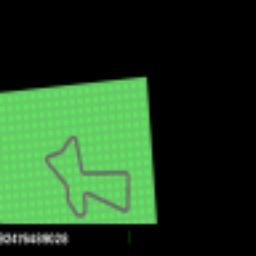
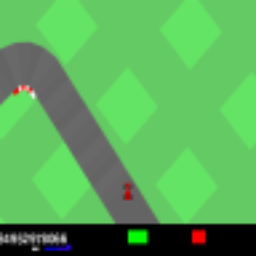
fix: 用暖机帧替代 reset 首帧，图片能看清赛车和赛道

diff --git a/scripts/visualize_carracing.py b/scripts/visualize_carracing.py
@@ -29,9 +29,15 @@ def load_models(output_dir):
     return vae, mdn, controller
 
 
-def capture_environment_frame(env, seed=0):
-    """捕获环境初始帧。"""
+def capture_environment_frame(env, seed=0, warmup_steps=30):
+    """捕获环境帧：先跑 warmup_steps 步，让车进入赛道弯道，画面更有代表性。"""
     obs, _ = env.reset(seed=seed)
+    for _ in range(warmup_steps):
+        # 轻微左转 + 油门，让车离开起点直道进入弯道
+        action = np.array([0.3, 0.5, 0.0])
+        obs, reward, terminated, truncated, _ = env.step(action)
+        if terminated or truncated:
+            break
     return obs
 
 

diff --git a/docs/chapters/03-decision-and-planning/03-06-reproduce-world-models.md b/docs/chapters/03-decision-and-planning/03-06-reproduce-world-models.md
@@ -25,8 +25,8 @@ World Models 原文有两个实验：CarRacing 赛车和 VizDoom 躲火球。我
 动作空间是三维连续向量：方向盘 \([-1, 1]\)、油门 \([0, 1]\)、刹车 \([0, 1]\)。每局最多 1,000 步（约 20 秒），冲出赛道或长时间停滞会提前结束。
 
 <div style="text-align:center; margin:20px 0;">
-  <img src="/carracing/carracing-initial.png" alt="CarRacing 初始帧" style="max-width:400px; border:1px solid #ddd; border-radius:8px;">
-  <div style="font-size:0.9em; color:var(--vp-c-text-2); margin-top:8px;">图 1：CarRacing 环境的一帧。96×96 像素，area 插值缩放到 64×64 后喂给 V。</div>
+  <img src="/carracing/carracing-initial.png" alt="CarRacing 赛道帧" style="max-width:400px; border:1px solid #ddd; border-radius:8px;">
+  <div style="font-size:0.9em; color:var(--vp-c-text-2); margin-top:8px;">图 1：CarRacing 环境的一帧。96×96 像素，area 插值缩放到 64×64 后喂给 V。红色小车在灰色赛道上，周围是绿色草地。</div>
 </div>
 
 原文收集了 10,000 次随机 rollout、合计约 1,000 万帧。课程脚本默认 400 次，普通笔记本 CPU 上约 1–3 小时可完成全流程。
